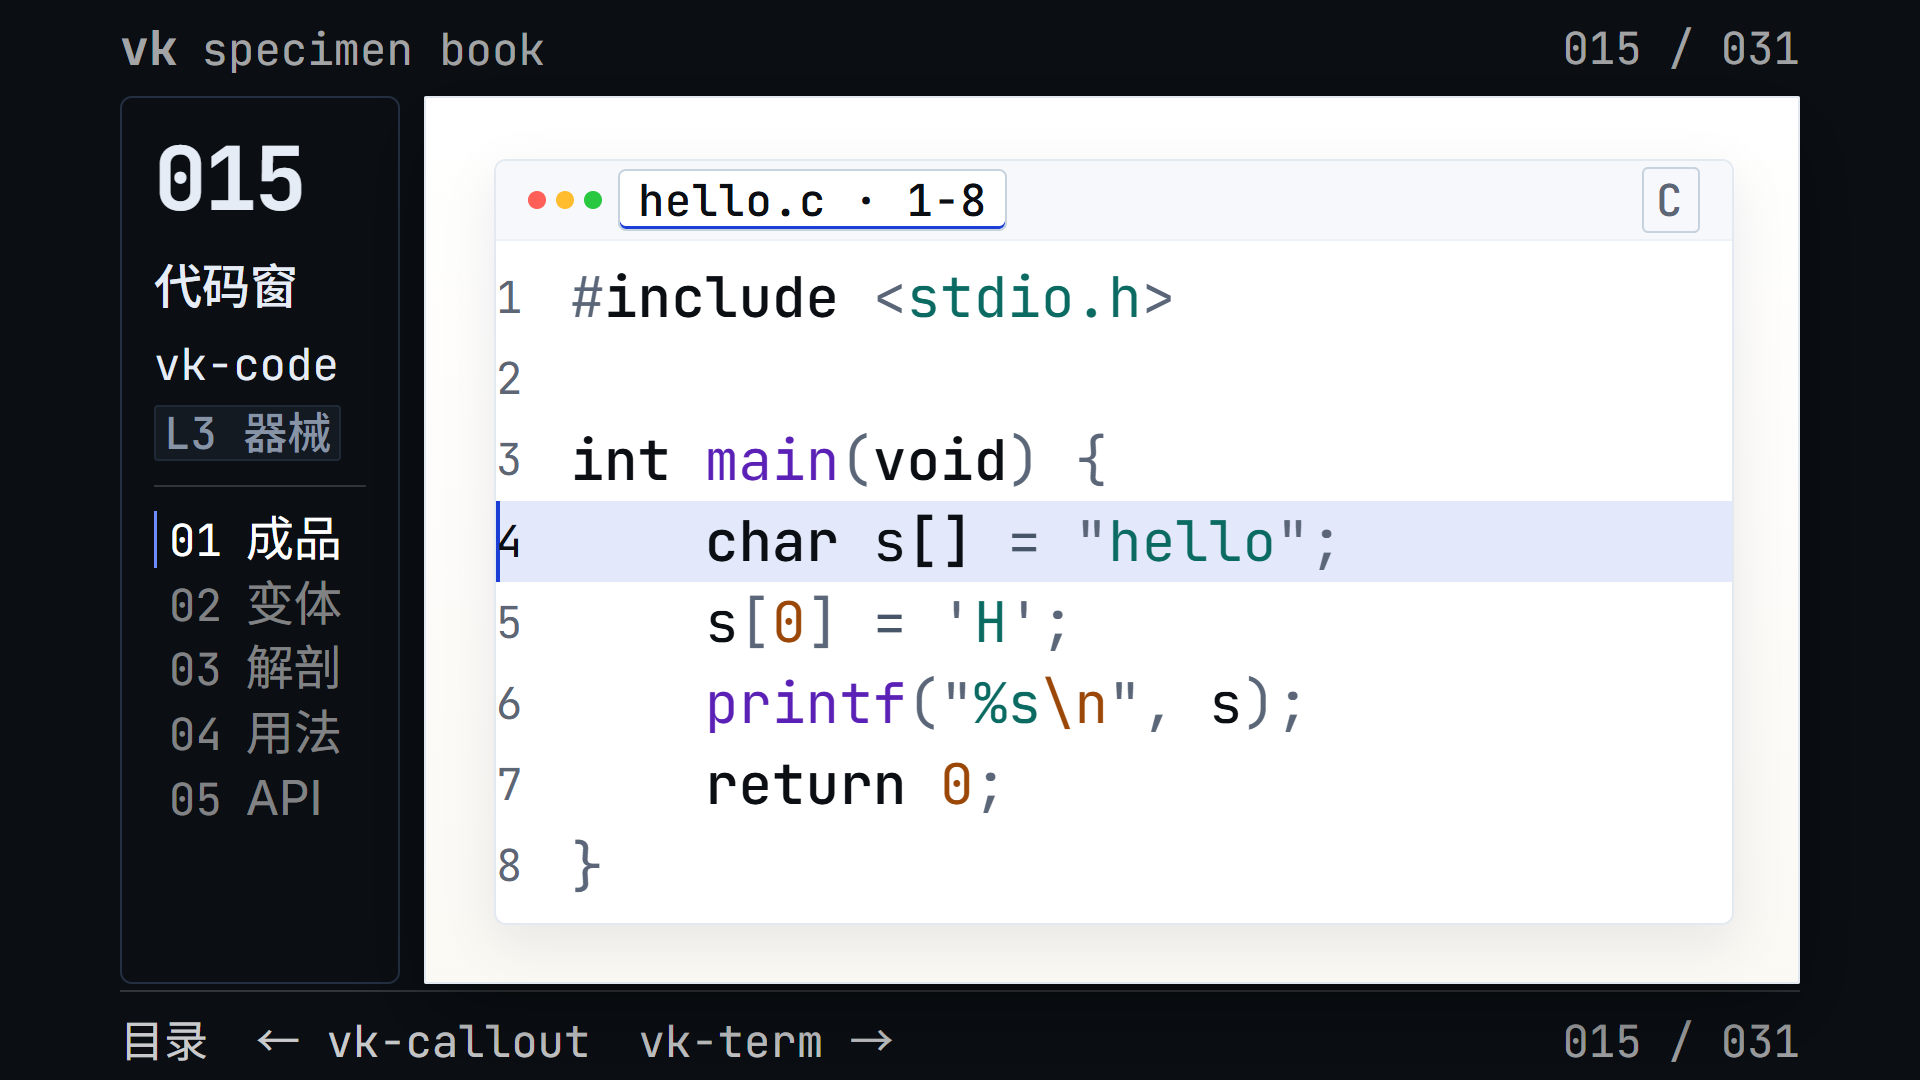
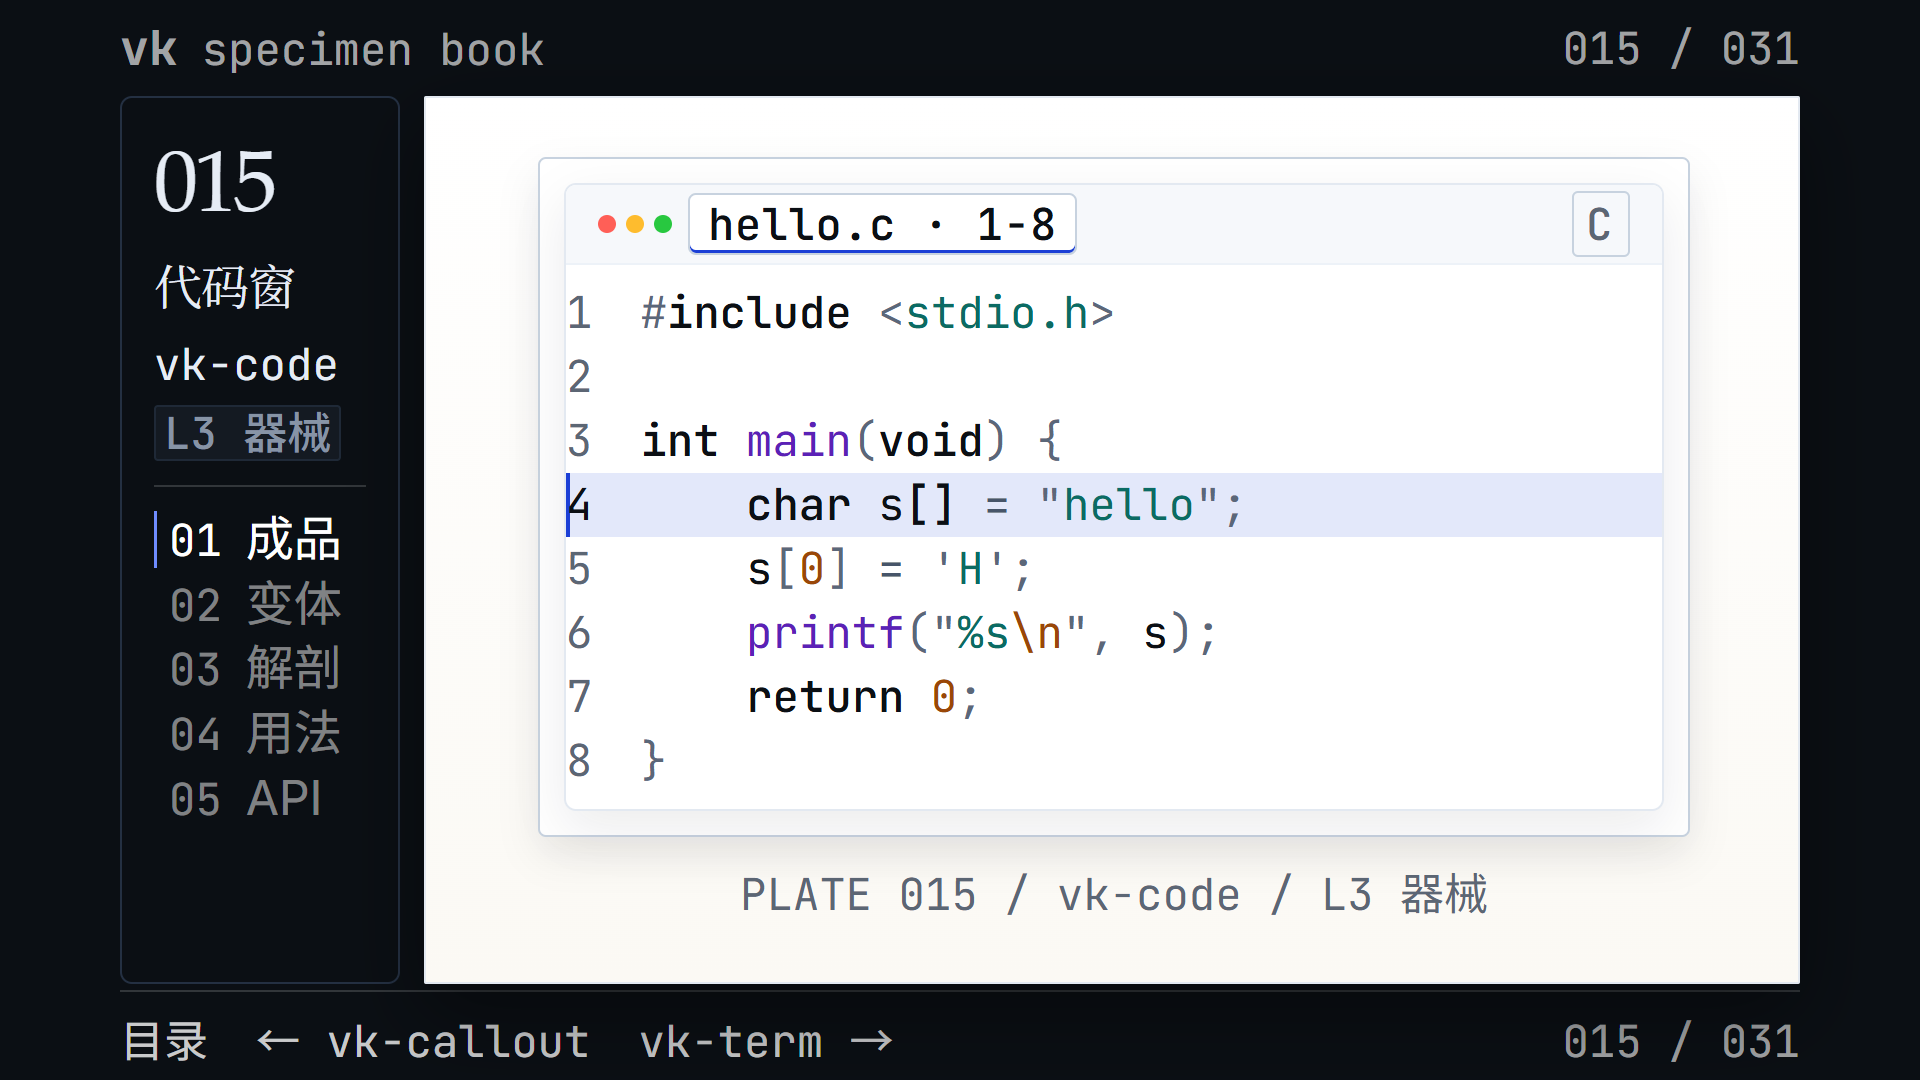
feat: mount the specimen plate and typeset the spine

diff --git a/site/showcase.css b/site/showcase.css
@@ -101,3 +101,7 @@ body[data-page='index'] [data-stage] vk-text { line-height: 1; }
 [data-usage-snippet] { line-height: 1.1; }
 
 .api-table table { table-layout: fixed; }
+
+.plate-no { font-family: var(--vk-font-display); font-weight: 400; letter-spacing: -0.05em; }
+.plate-name { font-family: var(--vk-font-display); font-weight: 400; letter-spacing: -0.02em; }
+[data-plate-mount] { box-shadow: 0 18px 40px rgba(8, 12, 20, 0.08); }

diff --git a/src/tokens/tokens.css b/src/tokens/tokens.css
@@ -137,6 +137,7 @@
   --vk-edge-cap: 14px;
 
   /* ---------------------------------------------------------------- 字 */
+  --vk-font-display: "Iowan Old Style", "Palatino Linotype", "Book Antiqua", Georgia, "Noto Serif SC", serif;
   --vk-font-sans: "Inter", "Noto Sans SC", "PingFang SC", "Microsoft YaHei",
     system-ui, sans-serif;
   --vk-font-mono: "JetBrains Mono", "Noto Sans SC", "SFMono-Regular", Consolas,

diff --git a/CHANGELOG.md b/CHANGELOG.md
@@ -4,7 +4,7 @@
 
 标本台第一轮：把“幻灯片”改成有页眉、图版、栏位、图例和真导航的标本册。
 
-- **版面**：深墨左栏 280 + 纸舞台 1376。左栏是图版号 / 名称 / 层 / 五镜头；页眉只剩 wordmark 与 015/031；页脚是目录 / 上一页 / 下一页；成品是整幅纸舞台；变体是 380 控件栏 + 940 舞台；解剖是实测 part + 底部图例带；用法是两栏 + 整行 mono 片段；索引是 31 格接触印样。非 16:9 帧外是墨色网格台面。
+- **版面**：深墨书脊 280 + 纸舞台 1376。书脊是衬线图版号 / 名称 / 层 / 五镜头；页眉只剩 wordmark 与 015/031；页脚是目录 / 上一页 / 下一页；成品是图版座 + 图注（PLATE 015 / vk-code / L3）；变体是 380 控件栏 + 940 舞台；解剖是实测 part + 底部图例带；用法是两栏 + 整行 mono 片段；索引是 31 格接触印样。非 16:9 帧外是墨色网格台面。
 - **交互**：修掉 `[` / `]` 空接线与 `Esc` 相对路径 500；所有锚点从 `display:contents` 改成可聚焦；镜头路由用 pushState，不再把页眉滚出画布；镜头有 aria-current / aria-selected，控件可 Enter/Space；补 h1 与 main 语义。
 - **库**：`vk-tag` 新增 `state`（selected / current / disabled）；`vk-table` 新增 `dense`；`vk-page` 新增 `surface`（paper / ink）；code / term / diff / tree / bytes / frames / figure / browser / page / cells 的内部区域统一发 `data-vk-part`；`vk-note` 的 tone 从“只换一笔”改成整条底色 + 左边线（annotate 里仍保持无底色）；`vk-steps` 完成徽标不再压住编号；`vk-math` 场景去掉裸 `<div>`。
 - **内容**：API 4 行/页，按组均分；0 属性用大号 0 + 内容模型；无可见变体给出解释；用法片段只给根标签的前两个属性 + `…`，完整片段仍在复制数据里。
